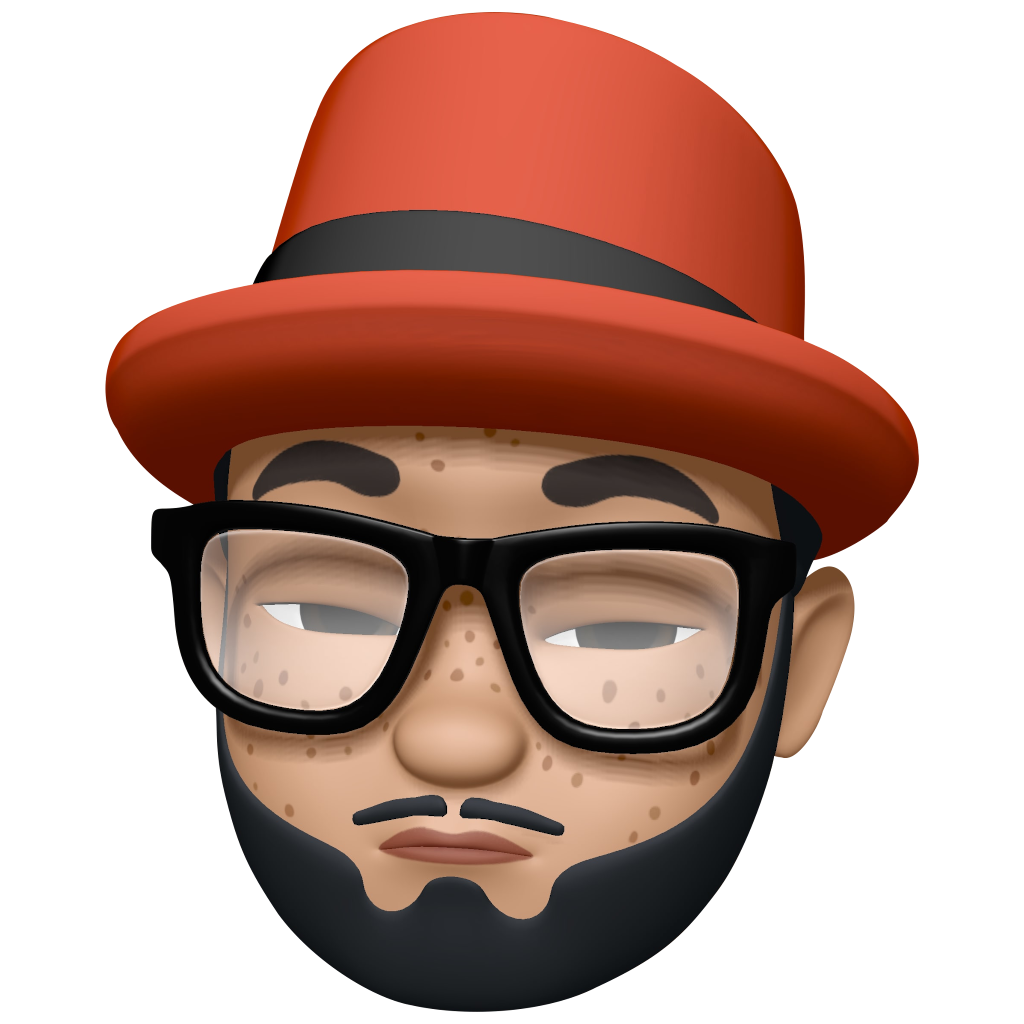
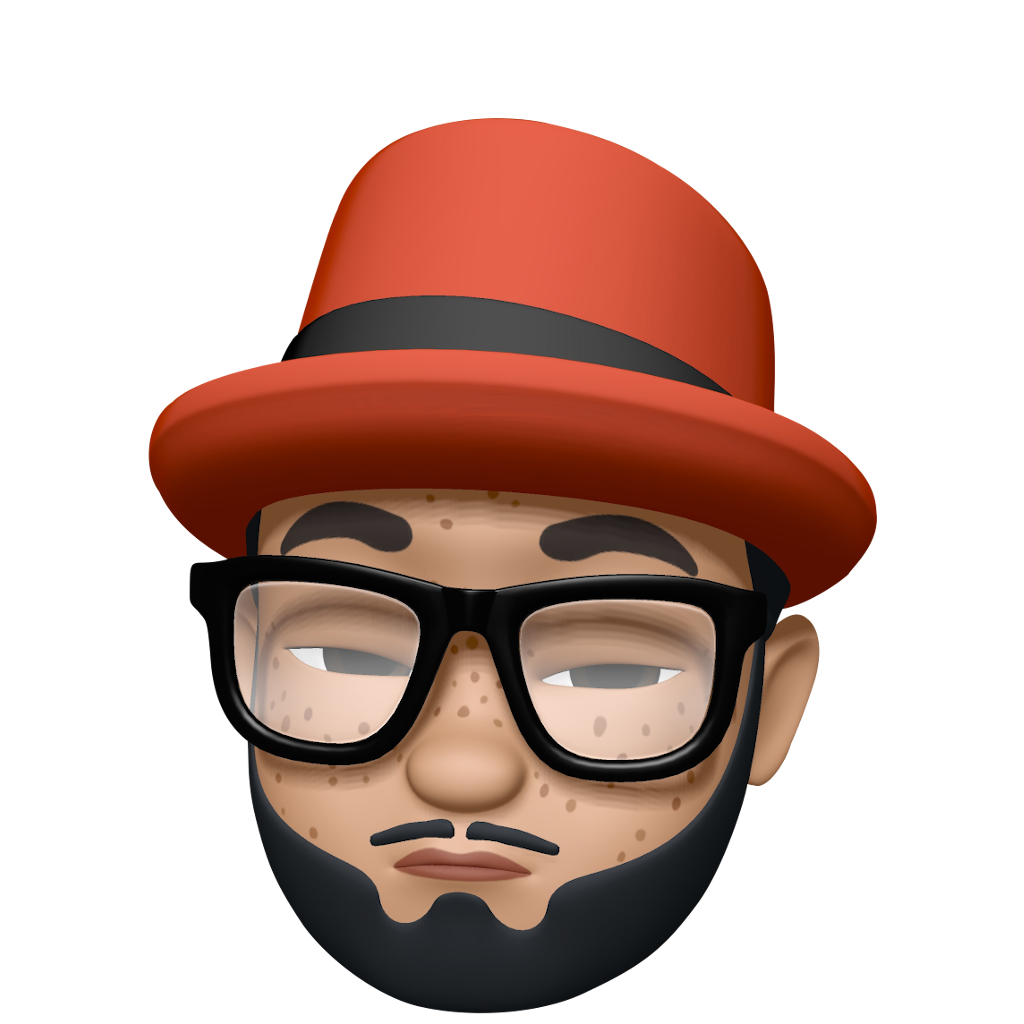
Make all memoji face sizes consistent

diff --git a/src/templates/home/components/memoji/Memoji.scss b/src/templates/home/components/memoji/Memoji.scss
@@ -9,13 +9,16 @@
   @include flip('horizontal', $duration-m, 0deg, 0deg, 0deg, 90deg, 0deg, -90deg);
   @include flip('horizontal-rev', $duration-m, 0deg, 0deg, 0deg, -90deg, 0deg, 90deg);
 
+  margin-top: -2em; // Most memoji have blank spaces at the top
+
+  transform-origin: 50% 100%;
   transform: scale(0.95);
 
   transition-property: transform, filter;
   transition-duration: $duration-s;
 
   .image {
-    width: 24em;
+    width: 28em;
     max-width: 100%;
 
     filter:

diff --git a/src/styles/motion/transitions.scss b/src/styles/motion/transitions.scss
@@ -18,7 +18,7 @@
 }
 
 @mixin flip($name, $duration, $xfrom: 0deg, $xmid: 0deg, $xto: 0deg, $yfrom: 0deg, $ymid: 0deg, $yto: 0deg) {
-  perspective: 24em;
+  perspective: 30em;
 
   .flip-#{$name}-enter {
     transform: rotateX($xfrom) rotateY($yfrom);
